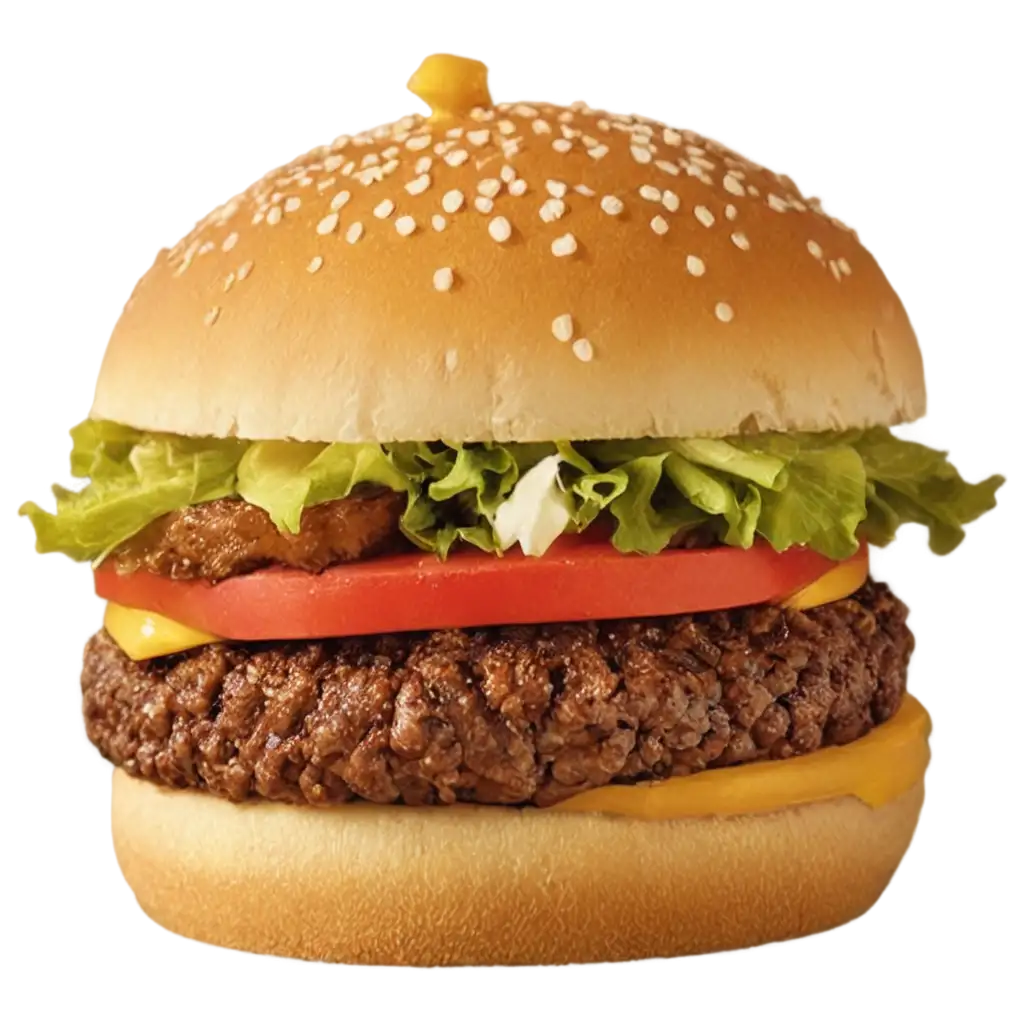
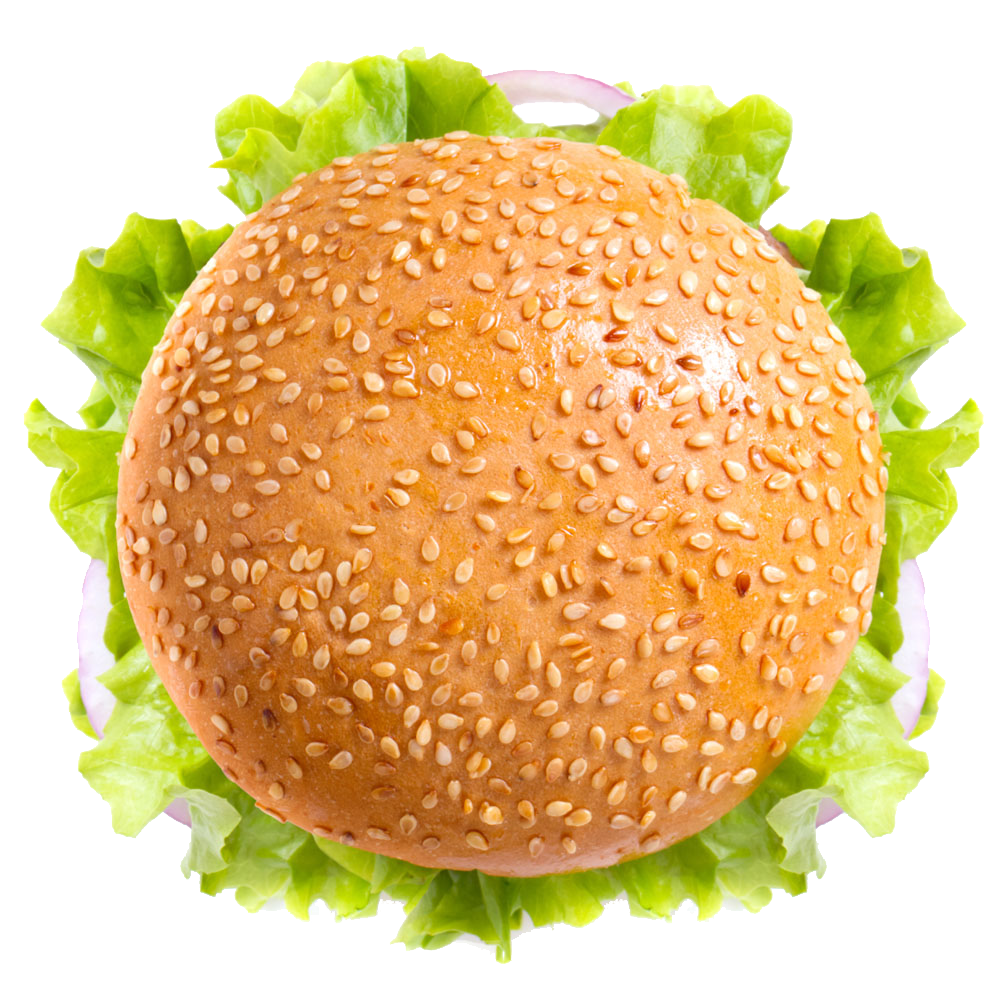
food display option added

diff --git a/foodies/src/components/FoodDisplay/FoodDisplay.jsx b/foodies/src/components/FoodDisplay/FoodDisplay.jsx
@@ -1,0 +1,65 @@
+import React, { useContext } from "react";
+import { StoreContext } from "../../context/StoreContext";
+
+const FoodDisplay = () => {
+  // Context'ten veriyi alıyoruz
+  const { foodList } = useContext(StoreContext);
+
+  return (
+    <div className="container mt-5">
+      <div className="row">
+        {foodList && foodList.length > 0 ? (
+          foodList.map((food, index) => (
+            <div
+              key={index}
+              className="col-12 col-sm-6 col-md-4 col-lg-3 mb-4 d-flex justify-content-center"
+            >
+              <div
+                className="card"
+                style={{ maxWidth: "320px", width: "100%" }}
+              >
+                <img
+                  src={food.image}
+                  className="card-img-top"
+                  alt={food.name}
+                />
+                <div className="card-body">
+                  <h5 className="card-title">{food.name}</h5>
+                  <p
+                    className="card-text text-muted"
+                    style={{ fontSize: "0.9rem" }}
+                  >
+                    {food.description}
+                  </p>
+                  <div className="d-flex justify-content-between align-foods-center">
+                    <span className="h5 mb-0">${food.price}</span>
+                    <div>
+                      <i className="bi bi-star-fill text-warning"></i>
+                      <small className="text-muted ms-1">
+                        ({food.rating || "4.5"})
+                      </small>
+                    </div>
+                  </div>
+                </div>
+                <div className="card-footer d-flex justify-content-between bg-light">
+                  <button className="btn btn-primary btn-sm">
+                    Add to Cart
+                  </button>
+                  <button className="btn btn-outline-secondary btn-sm">
+                    <i className="bi bi-heart"></i>
+                  </button>
+                </div>
+              </div>
+            </div>
+          ))
+        ) : (
+          <div className="col-12 text-center mt-4">
+            <h4>No food foods available. Please add some food to display.</h4>
+          </div>
+        )}
+      </div>
+    </div>
+  );
+};
+
+export default FoodDisplay;

diff --git a/adminpanel/src/pages/AddFood/AddFood.jsx b/adminpanel/src/pages/AddFood/AddFood.jsx
@@ -8,7 +8,7 @@ const AddFood = () => {
     name: "",
     description: "",
     price: "",
-    category: "Cake",
+    category: "Dessert",
   });
 
   const onChangeHandler = (event) => {
@@ -45,7 +45,7 @@ const AddFood = () => {
           name: "",
           description: "",
           price: "",
-          category: "Cake",
+          category: "Dessert",
         });
         setImage(null);
       }
@@ -84,7 +84,7 @@ const AddFood = () => {
                 </label>
                 <input
                   type="text"
-                  placeholder="Cake"
+                  placeholder="Dessert"
                   className="form-control"
                   id="name"
                   required
@@ -120,8 +120,8 @@ const AddFood = () => {
                   onChange={onChangeHandler}
                   value={data.category}
                 >
-                  <option value="cake">Cake</option>
-                  <option value="main-burger">Burger</option>
+                  <option value="dessert">Dessert</option>
+                  <option value="burger">Burger</option>
                   <option value="pizza">Pizza</option>
                   <option value="salad">Salad</option>
                   <option value="fries">Fries</option>

diff --git a/foodies/src/context/StoreContext.jsx b/foodies/src/context/StoreContext.jsx
@@ -1,0 +1,34 @@
+import { createContext } from "react";
+import { useState, useEffect } from "react";
+import axios from "axios";
+
+export const StoreContext = createContext(null);
+
+export const StoreContextProvider = (props) => {
+  const [foodList, setFoodList] = useState([]);
+
+  const fetchFoodList = async () => {
+    const response = await axios.get("http://localhost:8080/api/foods");
+    setFoodList(response.data);
+    console.log(response.data);
+  };
+
+  const contextValue = {
+    foodList,
+    fetchFoodList,
+  };
+
+  useEffect(() => {
+    async function loadData() {
+      const data = await fetchFoodList();
+      setFoodList(data);
+    }
+    loadData();
+  }, []);
+
+  return (
+    <StoreContext.Provider value={contextValue}>
+      {props.children}
+    </StoreContext.Provider>
+  );
+};

diff --git a/foodies/src/main.jsx b/foodies/src/main.jsx
@@ -7,9 +7,12 @@ import App from "./App.jsx";
 import "bootstrap/dist/css/bootstrap.min.css";
 import "bootstrap/dist/js/bootstrap.bundle.min.js";
 import "bootstrap-icons/font/bootstrap-icons.css";
+import { StoreContextProvider } from "./context/StoreContext.jsx";
 
 ReactDOM.createRoot(document.getElementById("root")).render(
   <BrowserRouter>
-    <App />
-  </BrowserRouter>,
+    <StoreContextProvider>
+      <App />
+    </StoreContextProvider>
+  </BrowserRouter>
 );

diff --git a/foodies/src/pages/Home/Home.jsx b/foodies/src/pages/Home/Home.jsx
@@ -1,12 +1,14 @@
 import React from "react";
 import Header from "../../components/Header/Header";
 import ExploreMenu from "../../components/ExploreMenu/ExploreMenu";
+import FoodDisplay from "../../components/FoodDisplay/FoodDisplay";
 
 const Home = () => {
   return (
     <main className="container">
       <Header />
       <ExploreMenu />
+      <FoodDisplay />
     </main>
   );
 };

diff --git a/foodies/src/service/foodService.jsx b/foodies/src/service/foodService.jsx
@@ -1,0 +1,13 @@
+import axios from "axios";
+
+const API_URL = "http://localhost:8080/api/foods";
+
+export const fetchFoodList = async () => {
+  try {
+    const response = await axios.get(API_URL);
+    return response.data;
+  } catch (error) {
+    console.error("Error fetching food list:", error);
+    throw error;
+  }
+};

diff --git a/foodies/src/components/ExploreMenu/ExploreMenu.css b/foodies/src/components/ExploreMenu/ExploreMenu.css
@@ -30,3 +30,10 @@
 .scroll-icon:hover {
   color: tomato;
 }
+
+.explore-menu hr {
+  margin: 10px 0px;
+  height: 2px;
+  background-color: #e2e2e2;
+  border: none;
+}

diff --git a/foodies/src/assets/assets.js b/foodies/src/assets/assets.js
@@ -23,7 +23,7 @@ export const categories = [
     icon: pizza,
   },
   {
-    category: "Cake",
+    category: "Dessert",
     icon: cake,
   },
   {

diff --git a/foodies/src/components/FoodItem/FoodItem.jsx b/foodies/src/components/FoodItem/FoodItem.jsx
@@ -1,0 +1,7 @@
+import React from "react";
+
+const FoodItem = () => {
+  return <div>FoodItem</div>;
+};
+
+export default FoodItem;

diff --git a/foodies/src/components/ExploreMenu/ExploreMenu.jsx b/foodies/src/components/ExploreMenu/ExploreMenu.jsx
@@ -55,6 +55,7 @@ const ExploreMenu = () => {
         })}
         ;
       </div>
+      <hr />
     </div>
   );
 };
